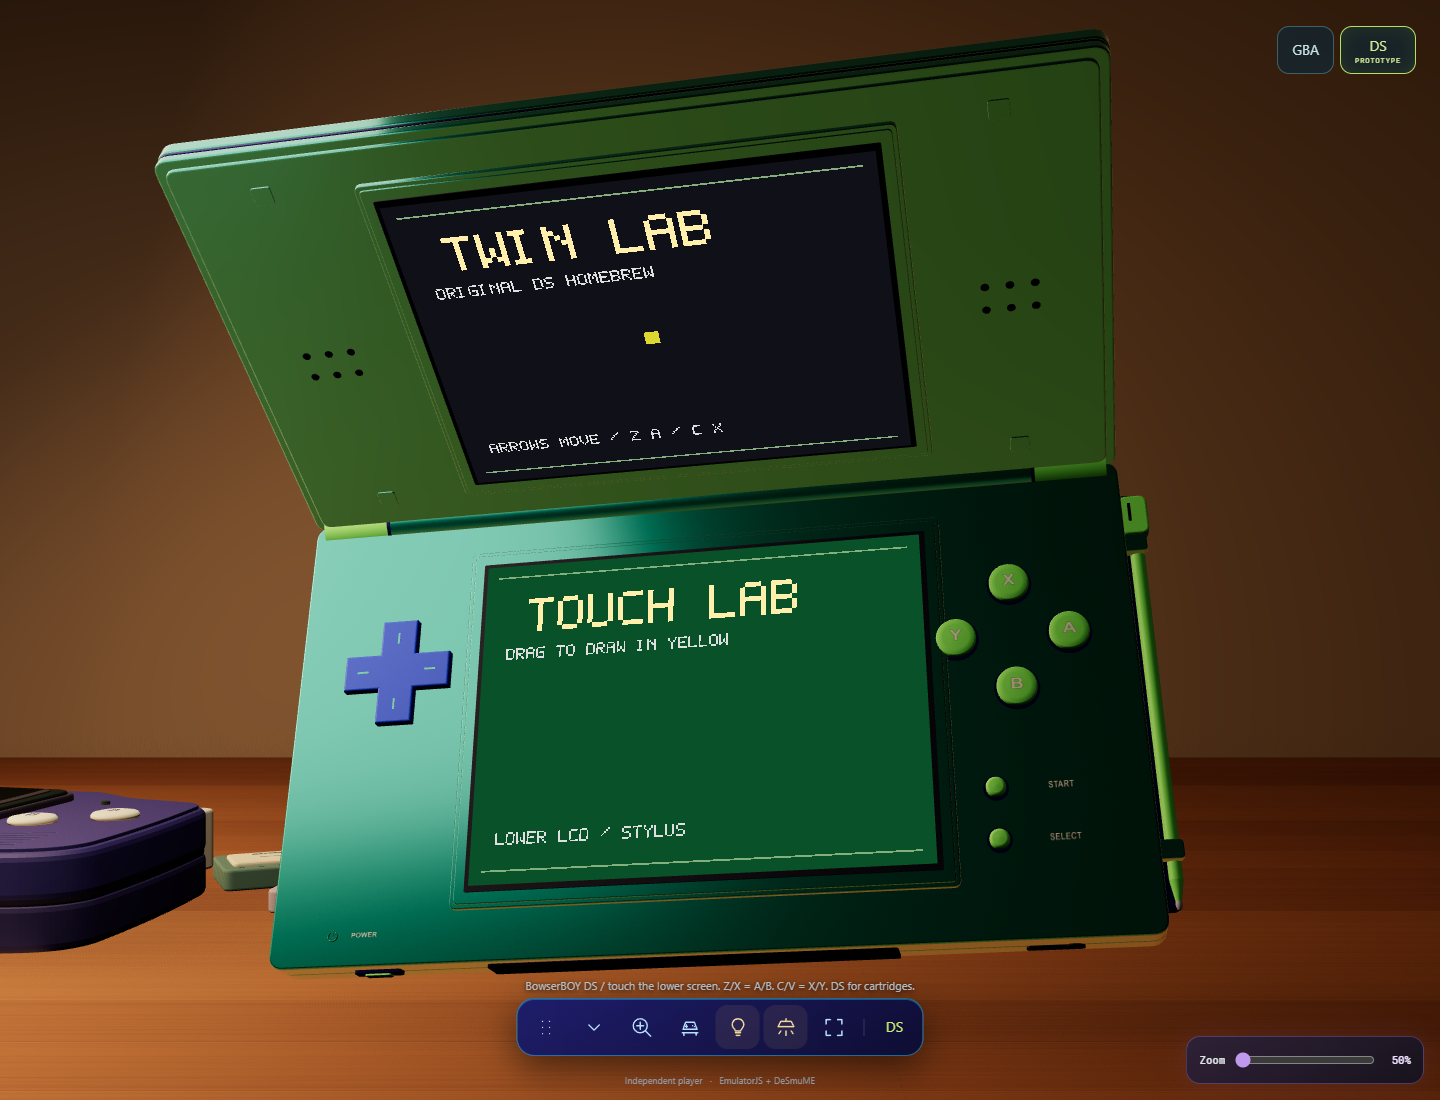
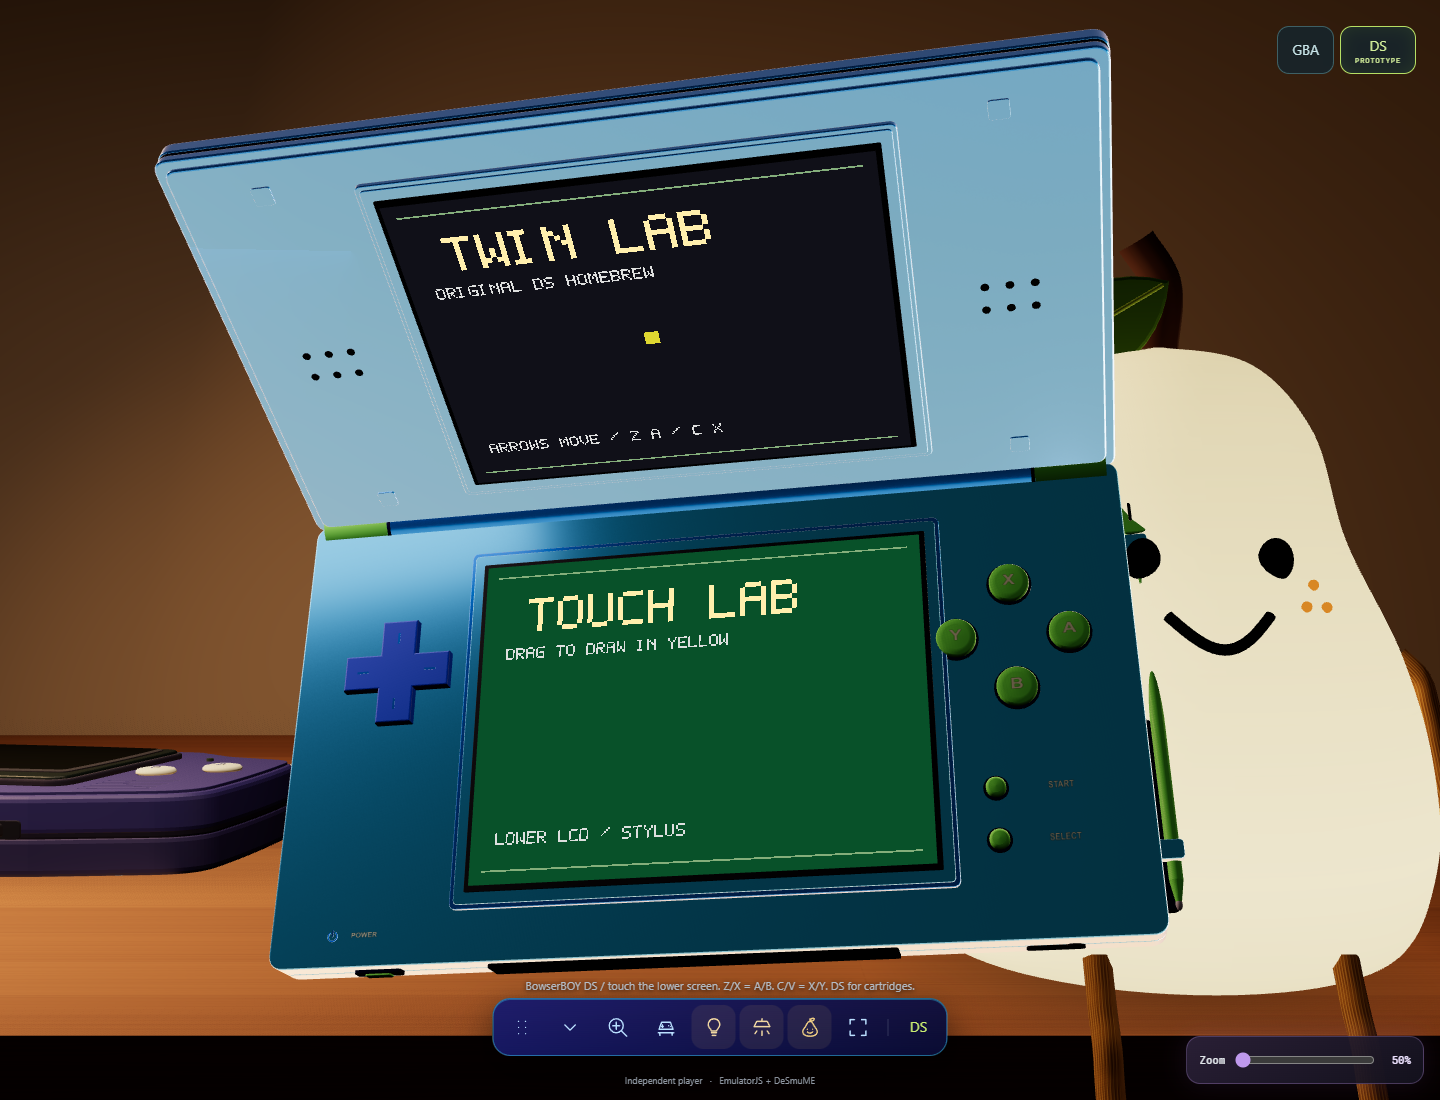
Brighten the DS shell and lighten only its lower base
Copilot-Session: 8e7d69ac-78f7-4310-8b8d-14bf8681a509

diff --git a/src/ds-handheld.js b/src/ds-handheld.js
@@ -6,7 +6,7 @@ const roundedBox = (width, height, depth, radius = .08) =>
 
 export function createDsHandheld() {
   const root = new THREE.Group();
-  root.name = 'BowserBoy DS - metallic teal DS Lite clamshell';
+  root.name = 'BowserBoy DS - bright blue-cyan DS Lite clamshell';
   root.userData.console = 'ds';
   const metal = (color, roughness = .36, metalness = .32) =>
     new THREE.MeshStandardMaterial({ color, roughness, metalness });
@@ -25,10 +25,11 @@ export function createDsHandheld() {
   grain.wrapS = grain.wrapT = THREE.RepeatWrapping;
   grain.repeat.set(3, 3);
   const paint = color => new THREE.MeshPhysicalMaterial({
-    color, metalness: .80, roughness: .35, envMapIntensity: 3.5, roughnessMap: grain,
+    color, metalness: .80, roughness: .35, envMapIntensity: 20, roughnessMap: grain,
     bumpMap: grain, bumpScale: .003, clearcoat: .55, clearcoatRoughness: .19,
   });
-  const shell = paint('#2A9D98');
+  const shell = paint('#0077FF');
+  const baseShell = paint('#40A0FF');
   const rim = shell;
   const edge = metal('#171A70', .42, .25);
   const lime = metal('#8BFF78', .40, 0);
@@ -61,8 +62,8 @@ export function createDsHandheld() {
     return mesh(parent, name, geometry, material, x, y, z);
   }
   mesh(root, 'Lower shell parting line', roundedBox(8.5, 4.75, .025, .14), edge, 0, -2.43, -.025);
-  mesh(root, 'Metallic blue lower rear shell', roundedBox(8.5, 4.75, .19, .14), shell, 0, -2.43, -.135);
-  mesh(root, 'Metallic blue control deck', roundedBox(8.5, 4.75, .22, .14), shell, 0, -2.43, .105);
+  mesh(root, 'Metallic blue lower rear shell', roundedBox(8.5, 4.75, .19, .14), baseShell, 0, -2.43, -.135);
+  mesh(root, 'Metallic blue control deck', roundedBox(8.5, 4.75, .22, .14), baseShell, 0, -2.43, .105);
   const lid = new THREE.Group();
   lid.name = 'Open hinged upper shell';
   lid.rotation.x = THREE.MathUtils.degToRad(70);
@@ -88,7 +89,7 @@ export function createDsHandheld() {
   const screens = [];
   for (const [parent, y, z, name] of [[lid, 2.43, .18, 'Upper'], [root, -2.43, .265, 'Touch']]) {
     mesh(parent, `${name} fine cyan bezel edge`, roundedBox(4.88, 3.77, .035, .06), rim, 0, y, z);
-    mesh(parent, `${name} metallic blue screen surround`, roundedBox(4.80, 3.69, .03, .04), shell, 0, y, z + .018);
+    mesh(parent, `${name} metallic blue screen surround`, roundedBox(4.80, 3.69, .03, .04), parent === root ? baseShell : shell, 0, y, z + .018);
     mesh(parent, `${name} black screen recess`, roundedBox(4.60, 3.475, .008, .015), dark, 0, y, z + .048);
     const screen = mesh(parent, `${name} live 256x192 LCD`, new THREE.PlaneGeometry(4.5, 3.375),
       new THREE.MeshBasicMaterial({ color: '#101d23', toneMapped: false }), 0, y, z + .085);
@@ -210,7 +211,7 @@ export function createDsHandheld() {
   circle(headphones, 'Headphone round recess', .09, .014, dark, .17, .015, 0);
   mesh(root, 'Rear DS game-card slot', roundedBox(1.68, .18, .24, .02), dark, 1.4, .1, -.02);
   mesh(root, 'Underside right battery cover seam', roundedBox(2.81, 3.51, .008, .10), edge, 2.35, -2.43, -.27);
-  mesh(root, 'Underside right battery cover', roundedBox(2.79, 3.49, .008, .09), shell, 2.35, -2.43, -.278);
+  mesh(root, 'Underside right battery cover', roundedBox(2.79, 3.49, .008, .09), baseShell, 2.35, -2.43, -.278);
   for (const [x, y] of [[-3.8, -.6], [3.8, -.6], [-3.8, -4.4], [3.8, -4.4], [2.35, -3.95]]) {
     const z = x === 2.35 ? -.292 : -.257;
     circle(root, 'Underside screw recess', .07, .012, dark, x, y, z);
@@ -241,7 +242,7 @@ export function createDsHandheld() {
   const nib = mesh(stylus, 'Short rounded polymer touch nib', new THREE.SphereGeometry(.032, 16, 12), lavender, 0, -2.07);
   nib.scale.set(1, 1.8, 1);
   for (const y of [-.90, -4.02]) {
-    mesh(root, 'Shell-integrated stylus retaining clip', roundedBox(.35, .16, .10, .035), shell, 4.30, y, .055);
+    mesh(root, 'Shell-integrated stylus retaining clip', roundedBox(.35, .16, .10, .035), baseShell, 4.30, y, .055);
   }
   return { root, lid, hinge, screens, screen: screens[1], controls, led, power, cartridge, stylus, branding };
 }

diff --git a/README.md b/README.md
@@ -37,16 +37,23 @@ loading LCD and DS tools. The inner lid has no emblem.*
 
 ![Separate GBA and DS consoles together on the BowserBOY table](docs/images/ds-prototype-table.png)
 
-*Two separate consoles on the same table. The metallic teal DS faces the lamp,
+*Two separate consoles on the same table. The blue-cyan DS faces the lamp,
 clears the loose cartridges and keeps its lime stylus clipped to its side.
 Actual local capture with optional Room lighting; not a deployed build.*
 
 ![Twin Lab running on both physical DS displays beside its stylus](docs/images/ds-prototype-playing.png)
 
-*The remodeled 110-degree clamshell has a metallic teal body, blue D-pad and
+*The remodeled 110-degree clamshell has a blue-cyan lid, slightly lighter blue
+lower base, blue D-pad and
 lime controls. Both screens show actual DeSmuME output: buttons move the
 upper marker and pointer/stylus input draws on the lower LCD. Twin Lab is
 original project homebrew, not a commercial game or simulated video.*
+
+![Blue-cyan DS shell with its lighter base under the existing warm lamps](docs/images/ds-blue-cyan-warm.png)
+
+*The same shell with Room lighting off and the displays dark. Warm lamps,
+exposure and GBA materials are unchanged; the lower base alone uses a lighter
+blue pigment than the lid. Actual local capture, not a published build.*
 
 From the repository folder, run `npm run dev`, then open
 **http://127.0.0.1:5173**. Select **DS**, open **DS cartridges** and choose
@@ -77,8 +84,9 @@ The GBA's native shader/settings/fullscreen features are not all DS features.
 
 ![The DS moved from its original desk position, beside the unchanged GBA and pear-boy](docs/images/console-movement.png)
 
-*The DS after a real drag, depth adjustment and drop. Its desk orientation
-is unchanged; each console remembers its own placement during this session.*
+*The DS after a real drag, depth adjustment and drop, captured before the
+blue-cyan material update. Its desk orientation is unchanged; each console
+remembers its own placement during this session.*
 
 Drag either console to lift and move it in 3D; scroll for depth and release
 to drop. Both keep their original desk orientation. **Move consoles** in

diff --git a/docs/MEDIA.md b/docs/MEDIA.md
@@ -8,6 +8,20 @@ This is the user's explicit policy for this repository, not a portfolio-wide rul
 
 ## Sources and boundaries
 
+### Brighter blue-cyan DS and lighter NDS base, 2026-11-07
+
+The current `ds-prototype-table.png` and `ds-prototype-playing.png` come from
+the actual native DS browser case after the color correction and base-only
+follow-up. `ds-blue-cyan-warm.png` comes from the focused shell-color case
+with Room lighting off and the displays dark. The final warm and native
+runtime captures were visually reviewed. No game screens are composited.
+
+The earlier teal specification below is superseded by #0077FF lid paint,
+#40A0FF lower-base paint and paint-only reflection strength 20. Both retain
+.80 metalness/.35 roughness, grain and clearcoat. Global lighting/exposure,
+GBA materials, controls, geometry and artwork are unchanged. The movement
+figure remains explicitly historical. No owner approval or deployment.
+
 ### Orientation-locked console movement, 2026-11-07
 
 `docs/images/console-movement.png` is an actual Edge/Playwright capture from
@@ -39,10 +53,10 @@ The README's `docs/images/ds-prototype-table.png` and
 `docs/images/ds-prototype-playing.png` are actual Edge/Playwright captures of
 the local separate-console scene and real Twin Lab emulation. They are not
 renders composited with invented game screens. Optional Room lighting reveals
-the metallic teal/lime materials; the existing warm lamp naturally changes
-their appearance. The current images replace the rejected first model with
+the original metallic teal/lime materials; the existing warm lamp naturally changes
+their appearance. Those captures replaced the rejected first model with
 the owner's #2A9D98/.80-metalness/.35-roughness specification, 110-degree hinge,
-blue D-pad, lime controls and clipped stylus. The current desktop table/runtime,
+blue D-pad, lime controls and clipped stylus. That desktop table/runtime,
 front/rear and 390px captures were reviewed together; this is not owner approval
 or physical-phone qualification. No studio lighting or white backdrop was added.
 

diff --git a/docs/VERIFICATION.md b/docs/VERIFICATION.md
@@ -9,6 +9,36 @@ record or constitute fresh execution of historical tests.
 
 ## Current follow-up and manual-release status, 2026-11-07
 
+### Blue-cyan shell and lighter NDS-only base
+
+The owner rejects the rendered green appearance, requests bright blue-cyan,
+then asks to lighten only the NDS lower base. Lid #0077FF and lower-base
+#40A0FF use paint-only reflection strength 20; .80 metalness/.35 roughness,
+grain and clearcoat remain. GBA, global lights/exposure, LCDs, controls,
+geometry and logos are unchanged.
+
+The initial hex-only trials stayed dark or green. Reflection trials at 12
+and 28 failed provisional brightness/hue checks; the latter also approached
+neutral highlights. Actual shell-only measurements selected 20 and a bluer
+pigment. Separate lid/deck bounds accommodate their different illumination,
+not an average including brown scenery, green LCDs or lime controls.
+
+The uniform blue-cyan material passed all five DS cases in 1.5m. After the
+lighter-base follow-up, four DS cases pass in a 1.4m run; the new comparison
+fixture fails because its return was accidentally nested in the sampler.
+Correct that fixture, without changing production material or assertions:
+the focused case then passes separately in 20.2s. It ray-checks eight visible
+shell probes under warm and Room lighting, requires blue-dominant cyan and
+separate lid/deck brightness, then renders the base in the lid's pigment
+under identical lighting. The lighter base must improve weighted RGB
+brightness by more than 15%; its real paint is restored in `finally`.
+
+All 35 units, application syntax and build pass. Native DS pixels,
+button/stylus/save/lifecycle/retry and 390px framing pass on the final
+production material. Actual warm and native runtime captures were reviewed
+and captioned in README. This is not a full-suite result, physical-phone
+qualification, aesthetic approval or publication.
+
 ### Orientation-locked console movement
 
 The requested commit/context checkpoint is `c996f7d`, made as Zanark before

diff --git a/docs/ARCHITECTURE.md b/docs/ARCHITECTURE.md
@@ -116,7 +116,7 @@ The held DS sits modestly forward of the seated pear, keeping the original
 front-facing inspection camera and both screens unobstructed without
 moving the console beyond the existing desk illumination.
 
-The physical shell uses #2A9D98 teal, metalness .80, roughness .35, deterministic
+The physical shell uses #0077FF blue-cyan, metalness .80, roughness .35, deterministic
 fine-grain roughness/bump and clearcoat. Lime hinge/stylus plastic is dielectric
 (.40 roughness); blue D-pad and lime convex controls use .45 roughness.
 Deep-blue slot/power trim uses .25 roughness and .50 metalness.
@@ -125,7 +125,12 @@ the supplied project emblem remains separate and rear-only.
 
 A 128px cube probe captures the actual existing room with both consoles hidden,
 then PMREM filters the reflection for DS paint only. Paint reflection strength
-is 3.5; lighting/background, GBA materials and renderer resolution are unchanged.
+is 20; lighting/background, GBA materials and renderer resolution are unchanged.
+This supersedes the earlier #2A9D98/3.5 teal appearance, which rendered green
+under the warm lamps. The lower deck/rear, touch-screen surround, battery
+cover and retaining clips use a separate #40A0FF paint for the subsequently
+requested slightly lighter NDS base. Lid/hinge paint remains #0077FF.
+Neither paint emits light; metalness, roughness and grain remain shared.
 Pose/light changes invalidate the probe; replacement maps are disposed.
 The first render starts only after DS storage initialization. Initial shader
 compilation otherwise blocked IndexedDB events beyond its unchanged 5s deadline.

diff --git a/.agent-context/PUBLIC.md b/.agent-context/PUBLIC.md
@@ -28,7 +28,7 @@ GitHub Release.
 The owner subsequently authorized a local DS prototype in workstream79.
 Actual dual-screen/input/save/lifecycle tests and a390px viewport pass;
 physical-phone performance, commercial compatibility and owner approval remain
-unqualified. The later reference remodel uses metallic teal #2A9D98/.80/.35,
+unqualified. The later reference remodel originally uses teal #2A9D98/.80/.35,
 a110-degree hinge, blue D-pad, lime controls, clipped stylus and rear-only emblem.
 Live inspection repaint, table/pickup clearance, static GBA settings branding
 and console-themed dock have a focused9-case browser gate. Existing desk
@@ -63,3 +63,11 @@ Keep all eight workstream fields, evidence distinct from human approval, and
 issue backlinks consistent with the [tracking guide](../docs/GITHUB-TRACKING.md).
 Never publish credentials, local continuity, raw conversations or social data.
 Read current contracts and source before editing; preserve unrelated changes.
+
+Workstream86 supersedes the green-looking teal: #0077FF blue-cyan lid and
+separate #40A0FF slightly lighter NDS base, paint reflection20. Both retain
+.80/.35 grain/clearcoat; GBA/global lighting/exposure/geometry stay unchanged.
+35units,syntax/build pass. Final lighter paint passes four DS cases; the
+repaired shell-comparison fixture passes separately with actual warm/Room
+pixel checks and >15% same-lighting base improvement. Actual captures reviewed.
+Owner approval and publication remain separate.
